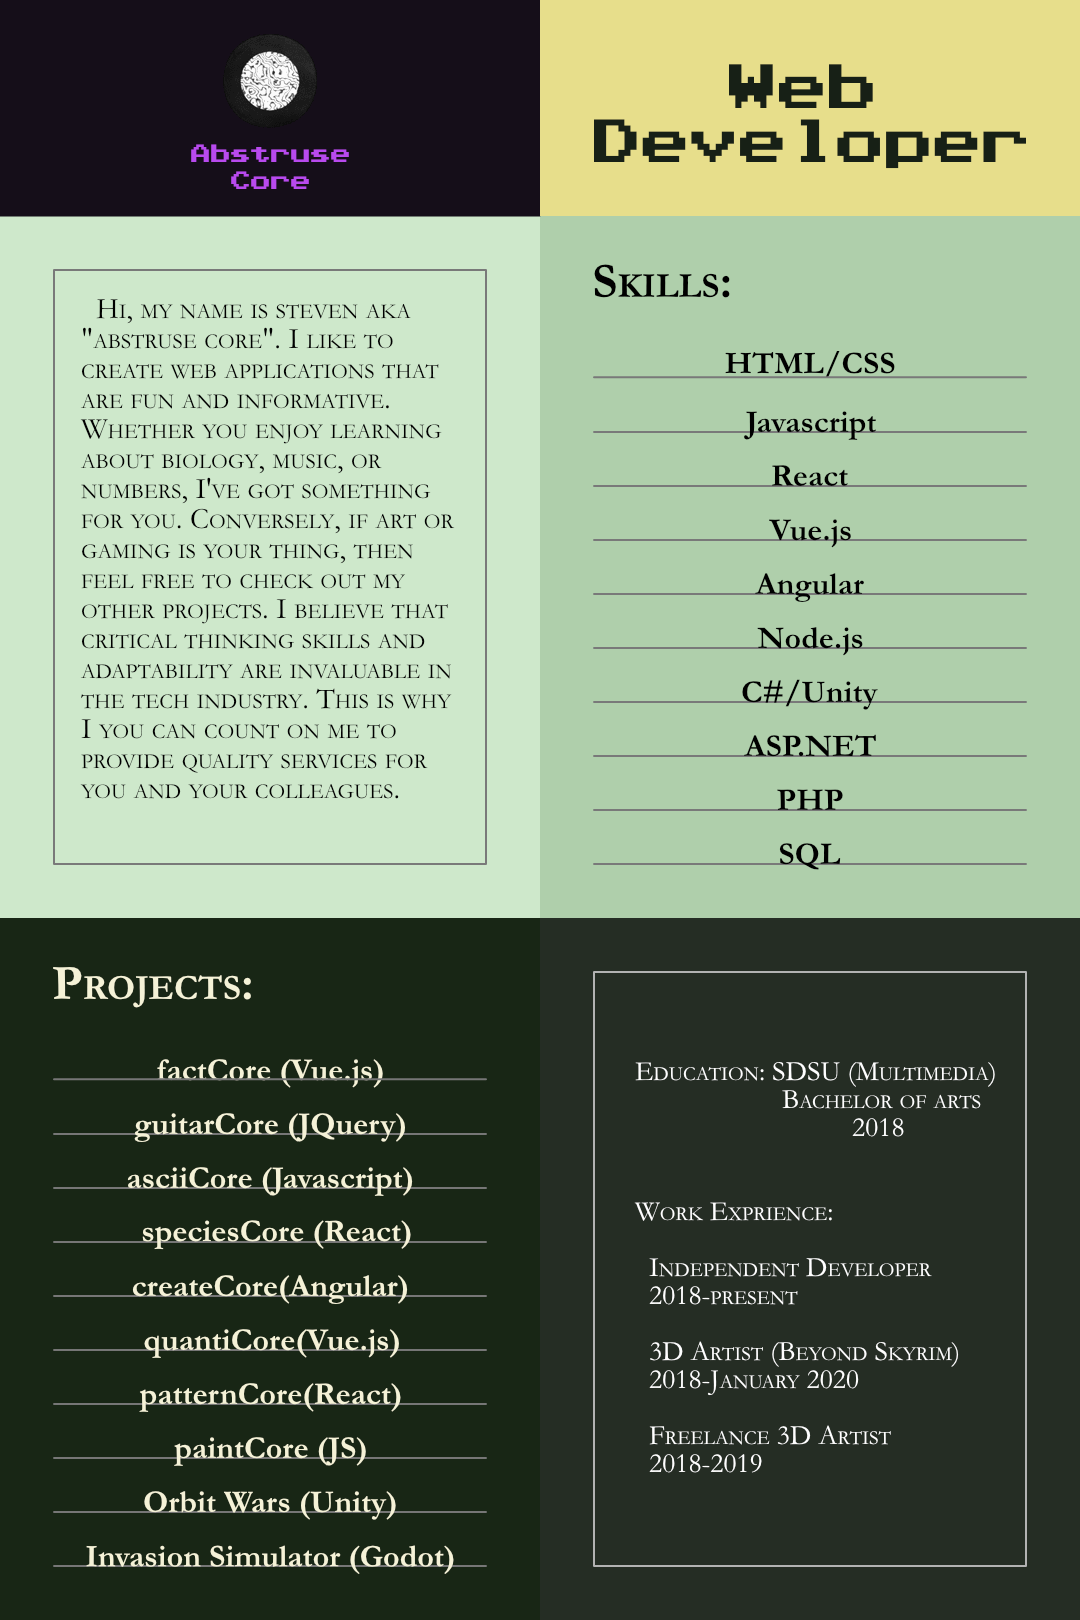
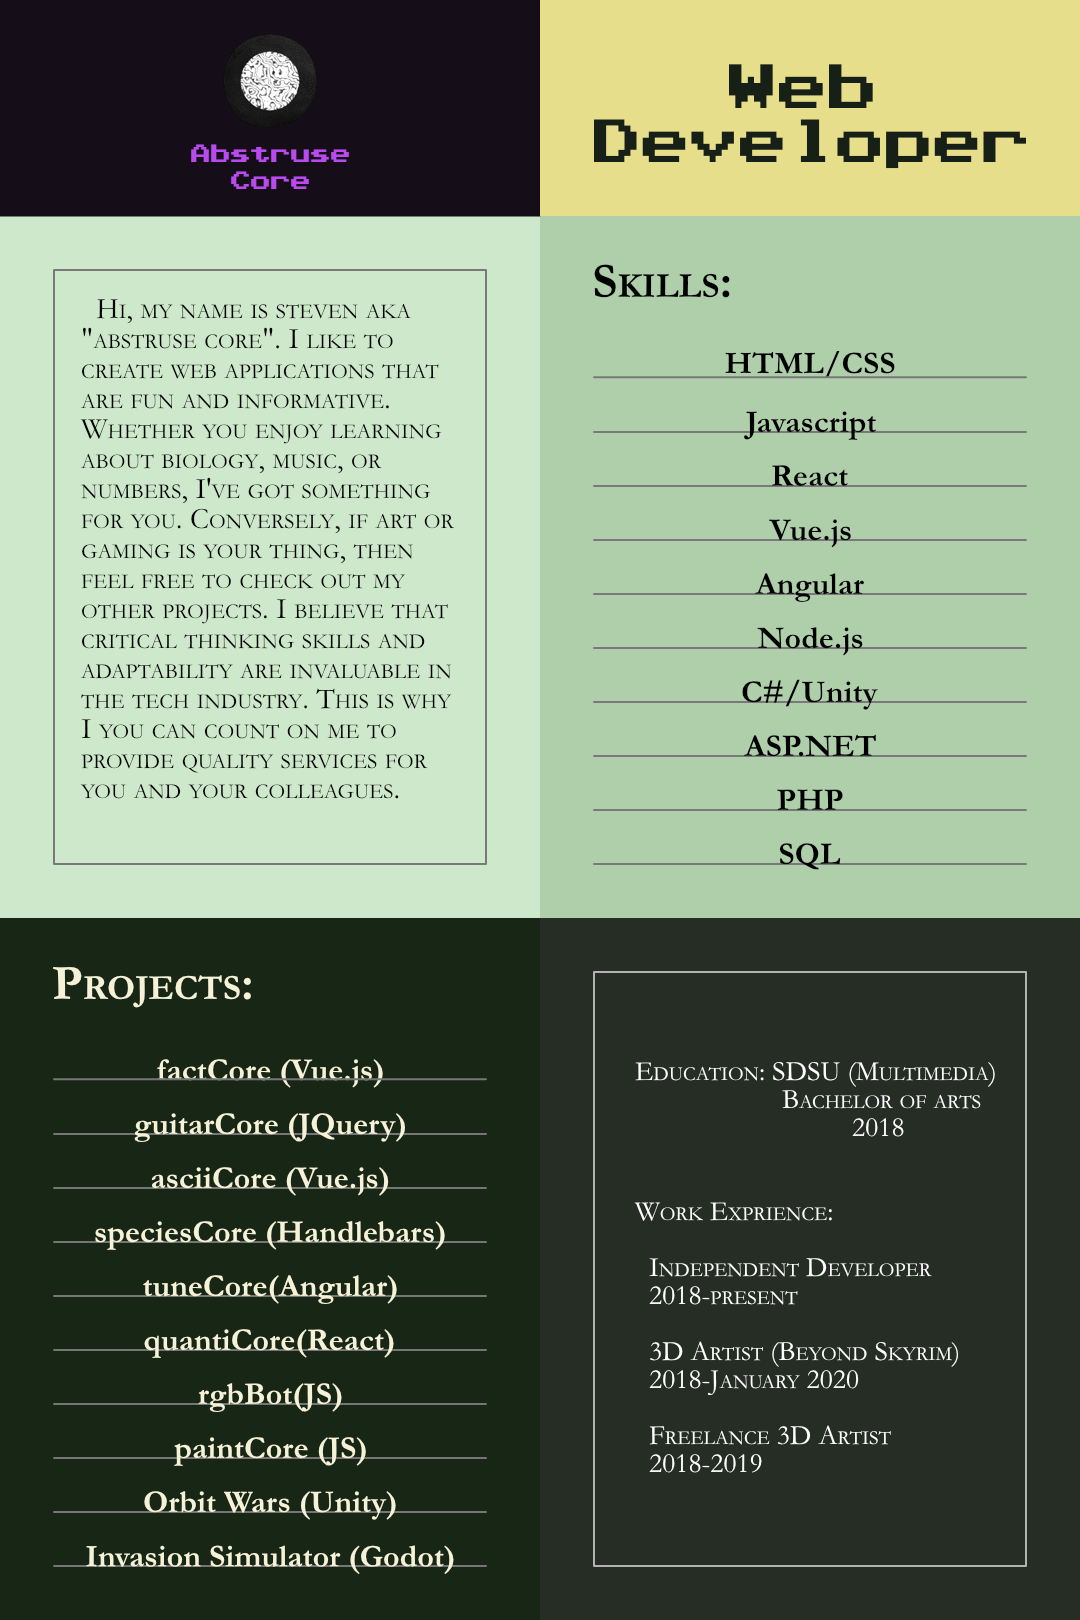
Updated layout

Changed region(s): [[0.0917, 0.7099, 0.4278, 0.8951]]

diff --git a/index.html b/index.html
@@ -19,7 +19,7 @@
      <!-- Navbar Component -->
     <nav class="navbar navbar-expand-sm fixed-top navbar-dark" style="background-color: black;">
 
-      <a class="navbar-brand" href="https://abstrusecore.site"><img src="./images/gif1.gif" width="64px" height="64px" alt="the abstruse core"></a>
+      <a class="navbar-brand" href="https://abstrusecore.site"><img src="./images/gif1.gif" width="64px" height="64px" alt="abstruse core's animated logo and link"></a>
 
       <button class="navbar-toggler" type="button" data-toggle="collapse" data-target="#navbarSupportedContent" aria-controls="navbarSupportedContent" aria-expanded="false" aria-label="Toggle navigation">
         <span class="navbar-toggler-icon"></span>
@@ -28,16 +28,16 @@
       <div class="collapse navbar-collapse" id="navbarSupportedContent">
         <ul class="navbar-nav mr-auto">
           <li class="nav-item mx-3">
-            <a class="nav-link" href="https://github.com/abstrusecore" target="_blank"><img src="./images/github.png"></a>
+            <a class="nav-link" href="https://github.com/abstrusecore" target="_blank" alt="abstruse core's github page"><img src="./images/github.png"></a>
           </li>
           <li class="nav-item mx-3">
-            <a class="nav-link" href="https://instagram.com/abstrusecore" target="_blank"><img src="./images/insta.png"></a>
+            <a class="nav-link" href="https://instagram.com/abstrusecore" target="_blank" alt="abstruse core's instagram page"><img src="./images/insta.png"></a>
           </li>
           <!-- <li class="nav-item mx-3">
             <a class="nav-link" href="https://abstrusecore.bandcamp.com" target="_blank"><img src="./images/music.png"></a>
           </li> -->
           <li class="nav-item mx-3">
-            <a class="nav-link mail"><img src="./images/mail.png"></a>
+            <a class="nav-link mail" alt="abstruse core's email address"><img src="./images/mail.png"></a>
           </li>
           <li class="nav-item mx-3">
             <div id="email">abstrusecore@gmail.com</div>
@@ -58,7 +58,7 @@
         <!-- Projects Section -->
         <div class="row rounded-top" id="gallery">
           <div class="col">
-            <h3 class="text-center display-5">Projects</h3>
+            <h2 class="text-center display-5">Projects</h2>
           </div>
         </div>
     
@@ -76,49 +76,57 @@
                 <li data-target="#indicators" data-slide-to="3"></li>
                 <li data-target="#indicators" data-slide-to="4"></li>
                 <li data-target="#indicators" data-slide-to="5"></li>
+                <li data-target="#indicators" data-slide-to="6"></li>
               </ol>
 
               <div class="carousel-inner">
 
                 <div class="carousel-item active">
-                  <a href="https://abstrusecore.github.io/factCore/" target="_blank"><img src="./images/facts1.gif" class="d-block w-100" alt="Project 1"></a>
+                  <a href="https://abstrusecore.github.io/factCore/" target="_blank" alt="Vue.js based web application for interesting facts, developed by Abstruse Core."><img src="./images/facts1.gif" class="d-block w-100" alt="Project 1"></a>
                   <div class="carousel-caption">
                     <p class="bg-dark rounded-pill">Project 1: <span class="font-weight-light">factCore</span></p>
                   </div>
                 </div>
 
                 <div class="carousel-item">
-                  <a href="https://abstrusecore.github.io/asciiCore/" target="_blank"><img src="./images/ascii1.gif" class="d-block w-100" alt="Project 2"></a>
+                  <a href="https://abstrusecore.github.io/asciiCore/" target="_blank" alt="Vue.js based web application for ASCII art and animation, developed by Abstruse Core."><img src="./images/ascii1.gif" class="d-block w-100" alt="Project 2"></a>
                   <div class="carousel-caption">
                     <p class="bg-dark rounded-pill">Project 2: <span class="font-weight-light">asciiCore</span></p>
                   </div>
                 </div>
 
                 <div class="carousel-item">
-                  <a href="https://abstrusecore.github.io/chordCore/" target="_blank"><img src="./images/guitar1.gif" class="d-block w-100" alt="Project 3" preload></a>
+                  <a href="https://abstrusecore.github.io/chordCore/" target="_blank" alt="Javascript based web application for guitar chords, scales and tunings, developed by Abstruse Core."><img src="./images/guitar1.gif" class="d-block w-100" alt="Project 3" preload></a>
                   <div class="carousel-caption">
                     <p class="bg-dark rounded-pill">Project 3: <span class="font-weight-light">guitarCore</span></p>
                   </div>
                 </div>
 
                 <div class="carousel-item">
-                  <a href="https://abstrusecore.github.io/paintCore/" target="_blank"><img src="./images/paint1.gif" class="d-block w-100" alt="Project 4"></a>
+                  <a href="https://abstrusecore.github.io/paintCore/" target="_blank" alt="Javascript based web application for digital painting, developed by Abstruse Core."><img src="./images/paint1.gif" class="d-block w-100" alt="Project 4"></a>
                   <div class="carousel-caption">
                     <p class="bg-dark rounded-pill">Project 4: <span class="font-weight-light">paintCore</span></p>
                   </div>
                 </div>
 
                 <div class="carousel-item">
-                  <a href="https://abstrusecore.github.io/OrbitWars/" target="_blank"><img src="./images/orbit1.gif" class="d-block w-100" alt="Project 5"></a>
+                  <a href="https://abstrusecore.github.io/OrbitWars/" target="_blank" alt="Unity based space game, developed by Abstruse Core."><img src="./images/orbit1.gif" class="d-block w-100" alt="Project 5"></a>
                   <div class="carousel-caption">
                     <p class="bg-dark rounded-pill">Project 5: <span class="font-weight-light">Orbit Wars</span></p>
                   </div>
                 </div>
 
                 <div class="carousel-item">
-                  <a href="https://abstrusecore.github.io/exploreCore/" target="_blank"><img src="./images/explore.png" class="d-block w-100" alt="Project 6"></a>
+                  <a href="https://abstrusecore.github.io/exploreCore/" target="_blank" alt="AngularJS 1.X based web application for exploring San Diego, developed by Abstruse Core."><img src="./images/explore.png" class="d-block w-100" alt="Project 6"></a>
                   <div class="carousel-caption">
                     <p class="bg-dark rounded-pill">Project 6: <span class="font-weight-light">exploreCore</span></p>
+                  </div>
+                </div>
+
+                <div class="carousel-item">
+                  <a href="https://abstrusecore.github.io/speciesCore/" target="_blank" alt="Handlebars based web application for learning about various species."><img src="./images/species.png" class="d-block w-100" alt="Project 6"></a>
+                  <div class="carousel-caption">
+                    <p class="bg-dark rounded-pill">Project 7: <span class="font-weight-light">speciesCore</span></p>
                   </div>
                 </div>
 
@@ -135,19 +143,24 @@
           </div>
         </div>
 
-
-      <hr>
     <!-- Container -->
     <div class="container" id="about">
-      <!-- Quote Section -->
       <div class="row">
         <div class="col my-5 text-center">
-          <h4 class="font-italic font-weight-light">"Feel free to browse, but try not to carouse!"</h4>
-          <p class="font-weight-bold font-italic">-Tom Nook, <span class="font-weight-light">Animal Crossing</span></p>
+          <h4 class="font-weight-bold font-italic">Welcome to my website!<br><br>Here you can find my web development projects, games, and more.</h4>
         </div>
       </div>
-      <hr>
-
+    </div>
+      <div class="container" id="quote">
+        <hr>
+        <!-- Quote Section -->
+        <div class="row">
+          <div class="col my-5 text-center">
+            <h5 class="font-italic font-weight-light">"Feel free to browse, but try not to carouse!"</h5>
+            <p class="font-weight-bold font-italic">-Tom Nook, <span class="font-weight-light">Animal Crossing</span></p>
+          </div>
+        </div>
+        <hr>
       <!-- Resume Button -->
       <div class="row projects">
         <div class="col">

diff --git a/style.css b/style.css
@@ -73,6 +73,9 @@ main {
     top: 75px;
     position: relative;
 }
+hr {
+    background-color: white;
+}
 #email {
     display: none;
     color: white;
@@ -97,6 +100,7 @@ main {
 }
 #gallery {
     margin-top: 4rem;
+    text-shadow: 0px 2px 5px rgb(255, 143, 255);
 }
 .carousel {
     border: 0.25rem solid #A5D9A6;
@@ -112,7 +116,11 @@ main {
     color: rgb(56, 250, 56);
 }
 #about {
-    text-shadow: 0px 2px 5px rgb(255, 143, 255);
+    text-shadow: 0px 2px 3px rgb(255, 143, 255);
+    width: 50%;
+}
+#quote {
+    color: #bc4be6;;
 }
 a {
     color: #A5D9A6;
